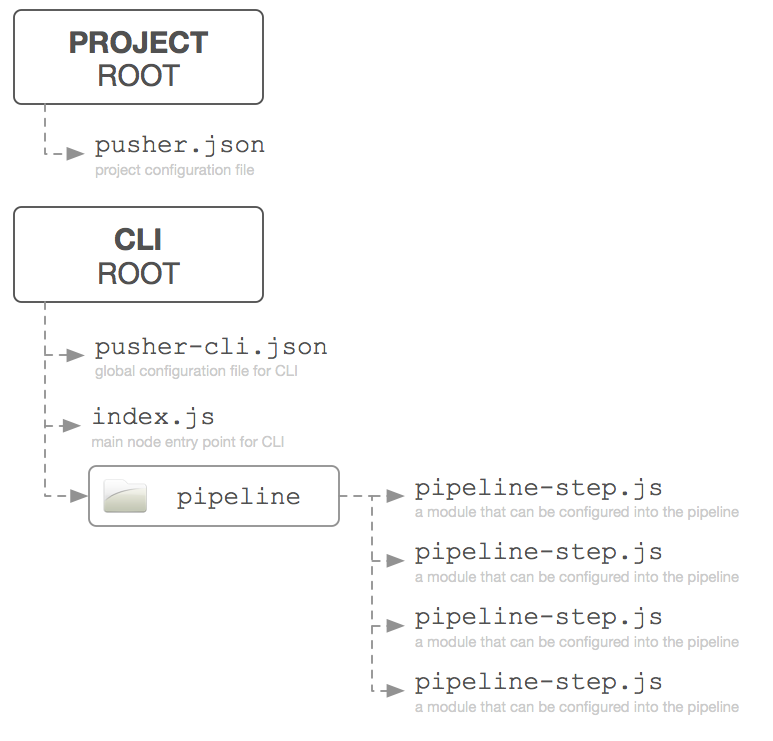
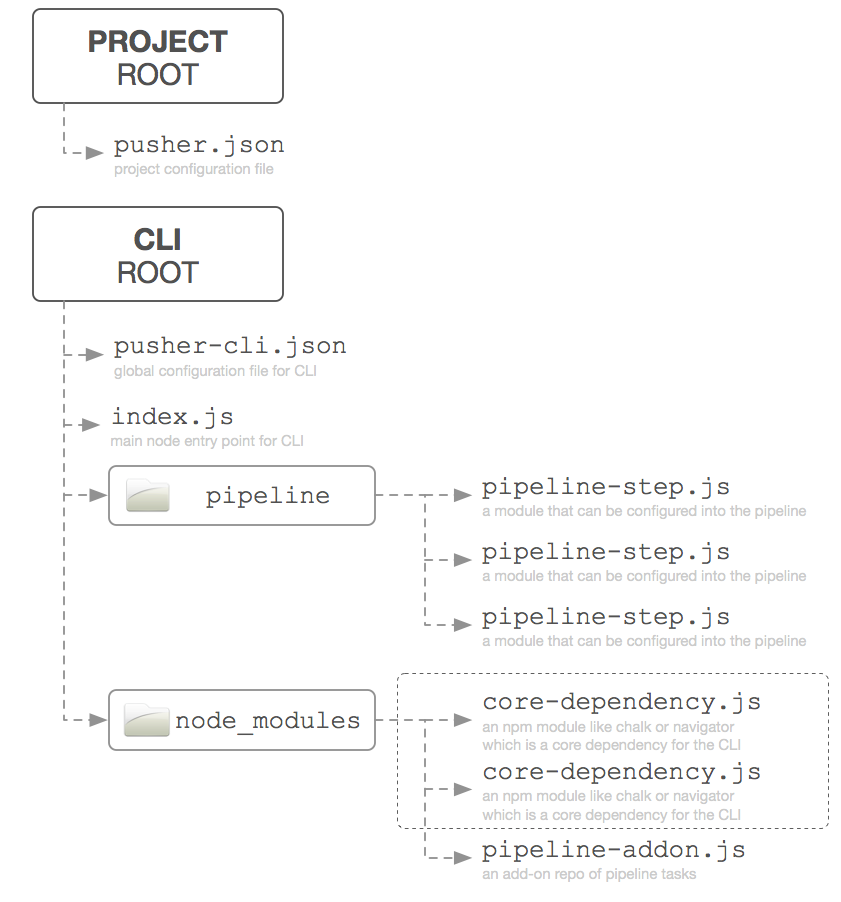
updated directory structure showing extensibility of npm-modules to meet both core deps and pipeline additions

diff --git a/README.md b/README.md
@@ -57,6 +57,11 @@ The *aws-pusher* application is available as a CLI application to start with the
 	The "commit" can be run as a CLI command but is more typically attached to git's `post-commit` hook. This ensures that whenever a 
 	`git push` is made that **pusher** has a chance to ensure AWS is up-to-date.
 
+3. `pusher addon`
+
+	This will dynamically install a dependency into the global CLI so that its functionality (imagined to mainly be additional pipeline tasks). This command would not be available day one but supports the idea of providing future extensibility.
+
+
 ### Ember Awareness ###
 
 This tooling is meant to deploy static assets to an opinionated AWS architecture *regardless* of the underlying static site's technology. That said, over time 
